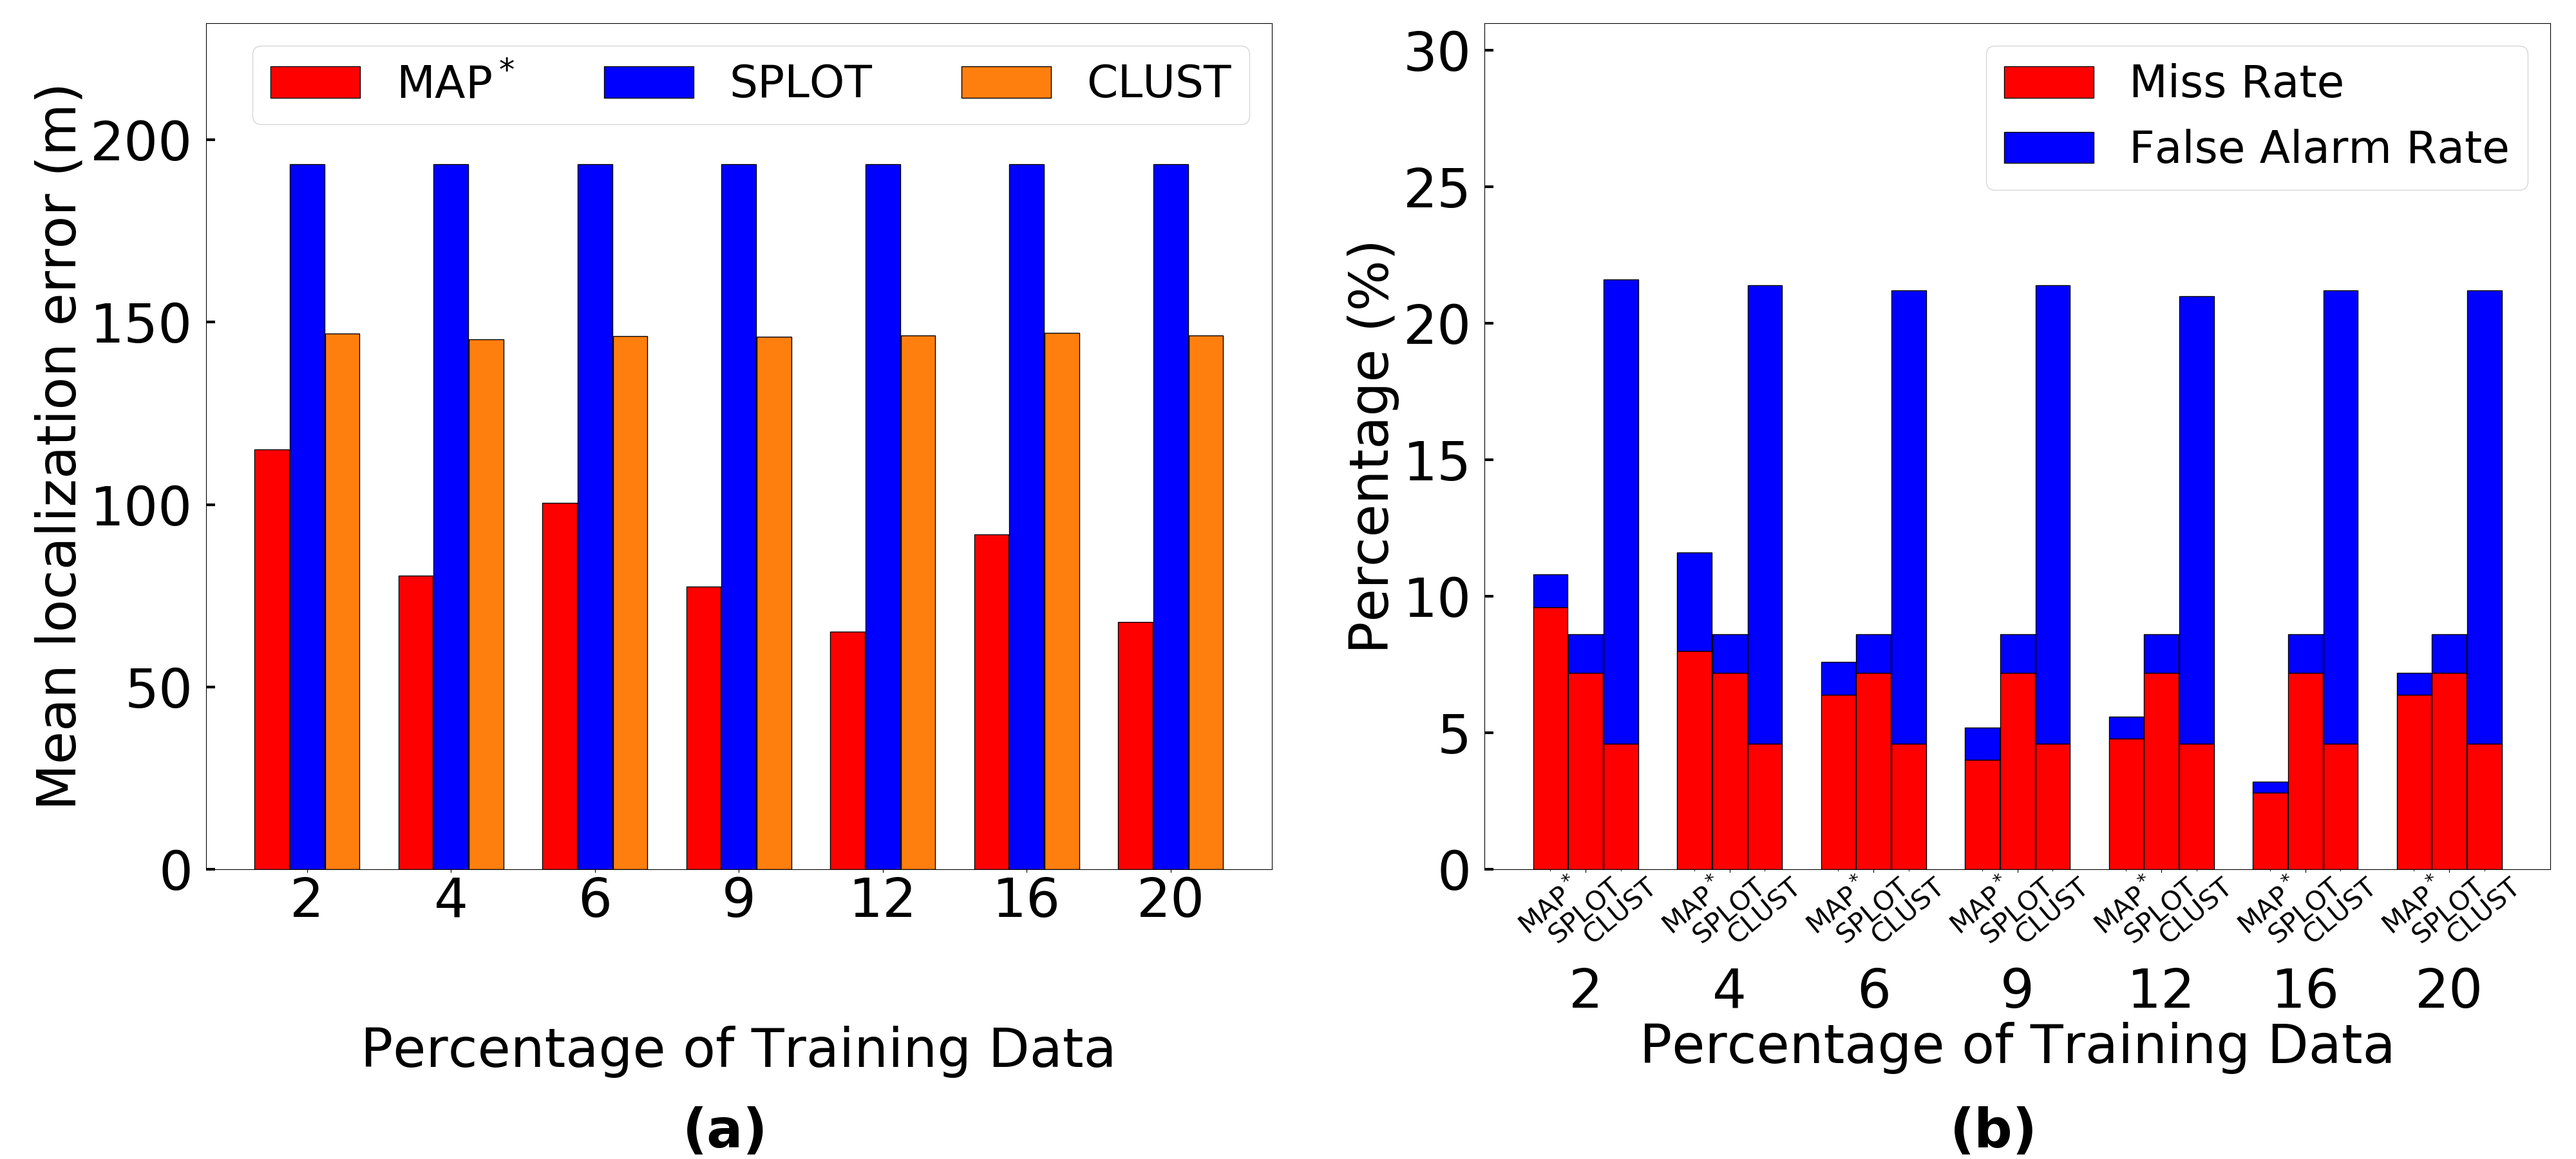
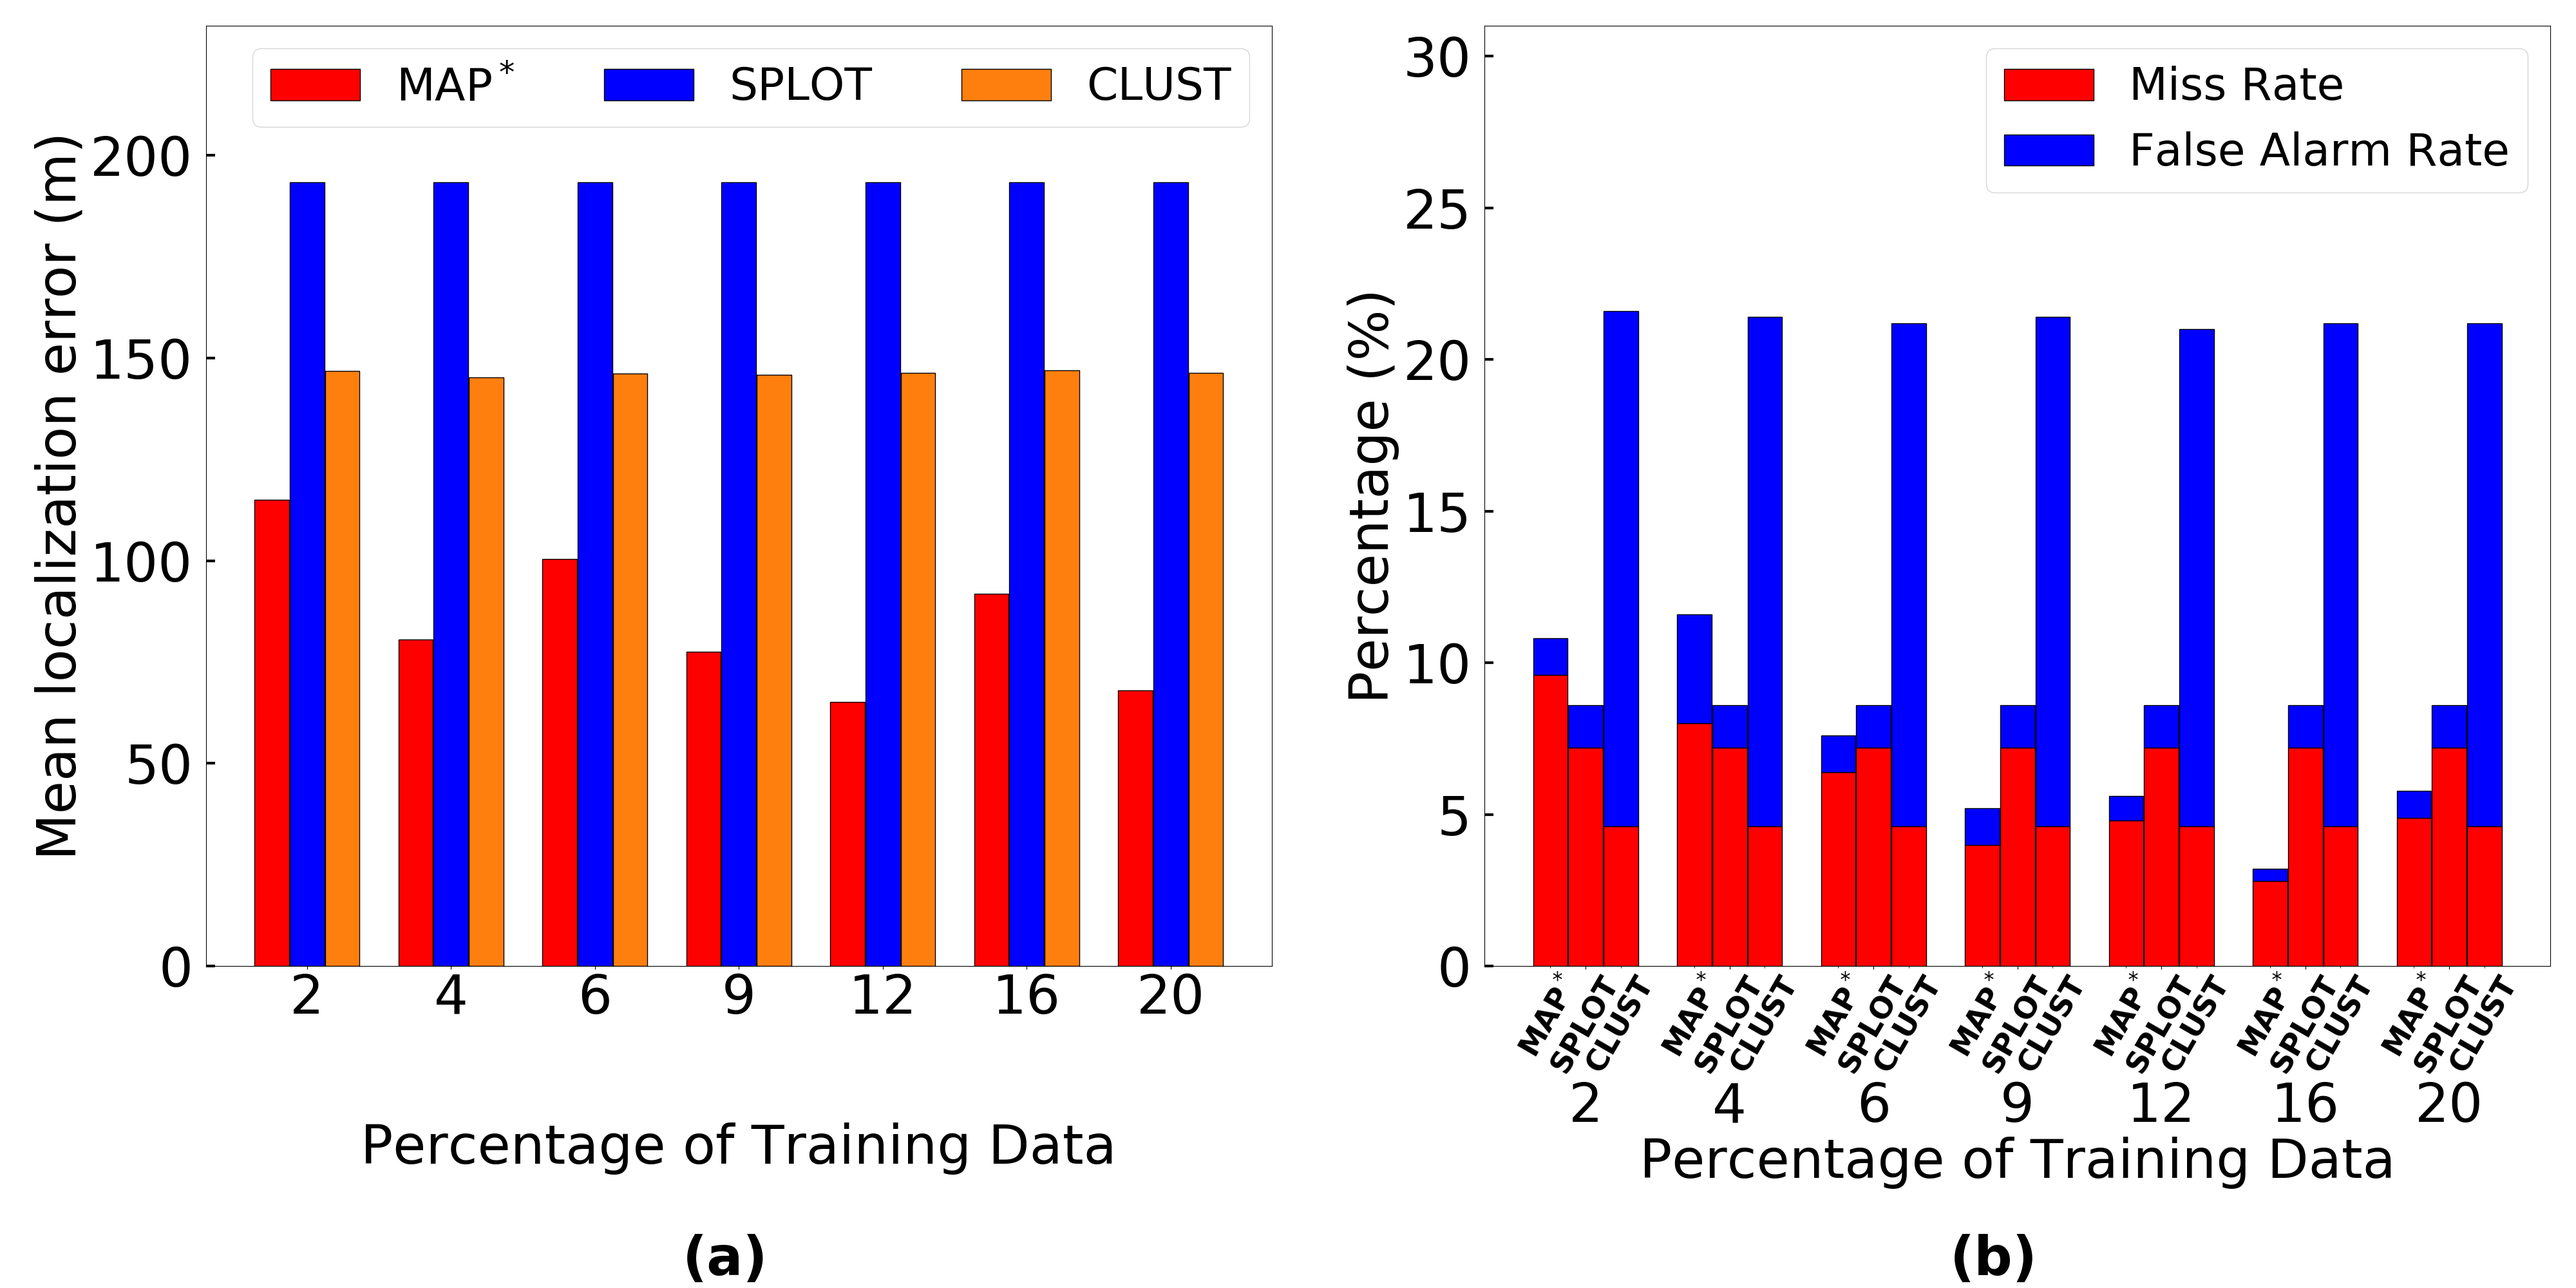
minor update on varying training data.

diff --git a/plot_result.py b/plot_result.py
@@ -2,11 +2,12 @@
 Generate plots that go into the paper
 '''
 import sys
+import random
+from collections import defaultdict
+import shutil
 import matplotlib.pyplot as plt
 import numpy as np
-import random
 import tabulate
-from collections import defaultdict
 from input_output import IOUtility
 from loc_default_config import Default
 try:
@@ -278,7 +279,7 @@ class PlotResult:
 
         # step 2: the plot
         ind = np.arange(len(our_error))
-        fig, (ax0, ax1) = plt.subplots(1, 2, figsize=(40, 18))
+        fig, (ax0, ax1) = plt.subplots(1, 2, figsize=(40, 20))
         fig.subplots_adjust(left=0.08, right=0.99, top=0.98, bottom=0.25)
         width = 0.24
         pos1 = ind - width - 0.005
@@ -311,8 +312,8 @@ class PlotResult:
         minor_lab = ['MAP$^*$']*len(ind) + ['SPLOT']*len(ind) + ['CLUST']*len(ind)
         ax1.set_xlabel('Percentage of Training Data')
         ax1.set_xticks(minor_pos, minor=True)
-        ax1.set_xticklabels(minor_lab, minor=True, fontsize=30, rotation=40)
-        ax1.tick_params(axis='x', which='major', pad=105)
+        ax1.set_xticklabels(minor_lab, minor=True, fontsize=33, rotation=60, weight='bold')
+        ax1.tick_params(axis='x', which='major', pad=125)
         ax1.tick_params(axis='y', direction='in', length=10, width=3, pad=15)
         plt.ylim([0, 31])
         plt.ylabel('Percentage (%)')
@@ -386,6 +387,7 @@ def splat_vary_traindata():
             'results/10.20-5/log-gran-12', 'results/10.20-5/log-gran-14', 'results/10.20-5/log-gran-16', 'results/10.20-5/log-gran-18']
     data = IOUtility.read_logs(logs)
     PlotResult.error_missfalse_vary_training(data, src='splat', num_intruder=Default.num_intruder, sensor_density=Default.sen_density, cell_len=SplatMap.cell_len, figname='plot/splat-vary-training')
+    shutil.copy('plot/splat-vary-training.png', '/home/caitao/Project/latex/localize/ipsn/figures')
 
 
 if __name__ == '__main__':
